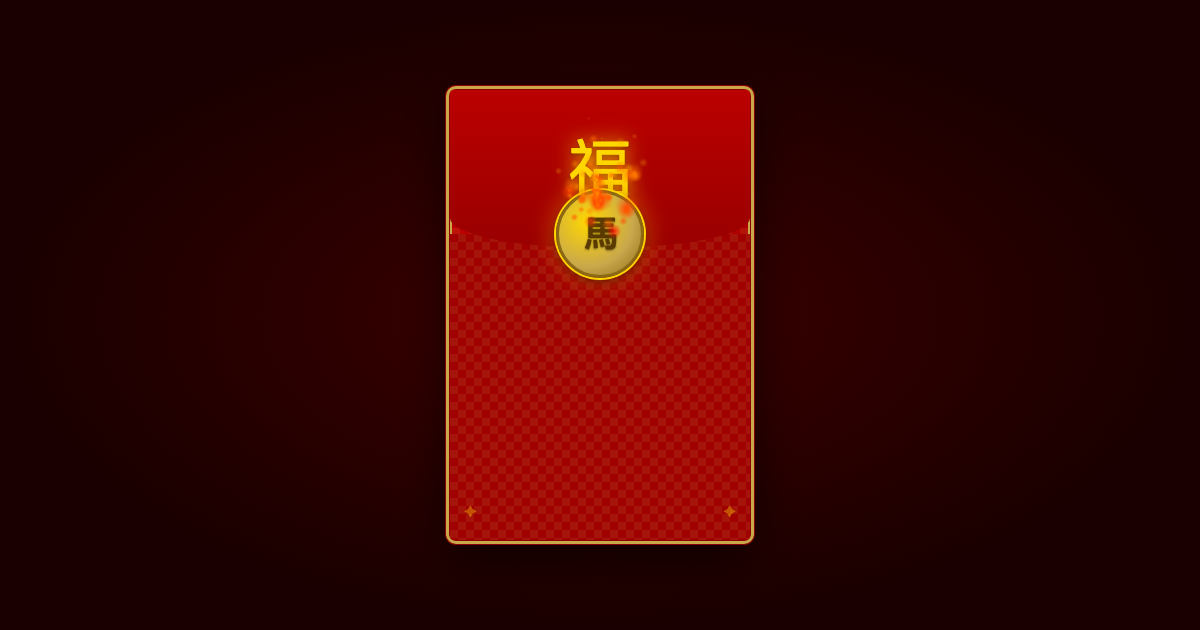
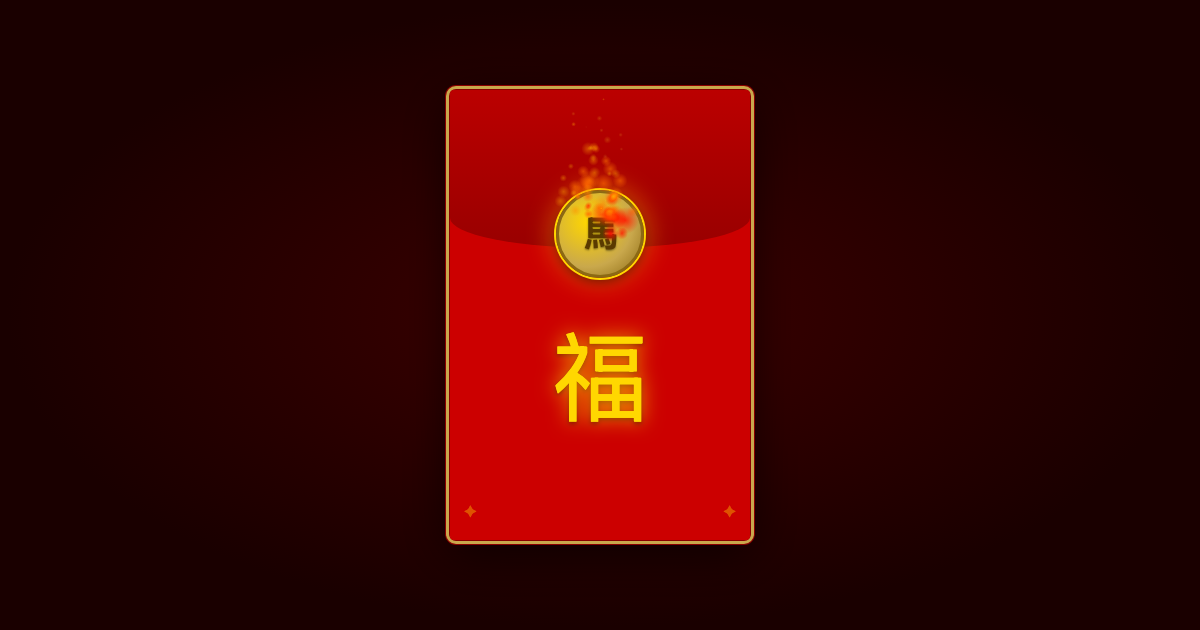
feat: third round of UI fixes — text colors, flap hinge, front panel, fire timing, greeting
- Fix 1: message text colors for cream paper (#8B1A1A / #5C3317 / #7A4A1E)
- Fix 2: flap hinge at top (transform-origin: top center), remove backface-visibility
- Fix 3: front panel top edge up to 28%/72% to cover fold-line corners
- Fix 4: fire canvas fades at t=800ms (0.8s) — clears before message at t=1000ms
- Fix 5: Chinese greeting split to two lines (新年快乐 / 万事如意)
- Add generate-opened.ts preview script and paper-card visibility test

Changed region(s): [[0.37, 0.3619, 0.6475, 0.8746], [0.4625, 0.2111, 0.555, 0.3921]]

diff --git a/index.html b/index.html
@@ -3,13 +3,13 @@
 <head>
   <meta charset="UTF-8" />
   <meta name="viewport" content="width=device-width, initial-scale=1.0" />
-  <title>新年快乐 · Happy Chinese New Year 🧧</title>
+  <title>🧧 新年快乐 · Happy Chinese New Year</title>
 
   <!-- Open Graph / link preview -->
   <!-- IMPORTANT: og:image and og:url must be updated to absolute URLs before sharing a hosted link.
        OG meta tags have no effect when sharing as a file attachment — they only work when hosted. -->
-  <meta property="og:title" content="新年快乐 · Happy Chinese New Year 🧧" />
-  <meta property="og:description" content="🧧 新年快乐 · Happy Chinese New Year — Tap to open your red envelope!" />
+  <meta property="og:title" content="新年快乐 · Happy Chinese New Year" />
+  <meta property="og:description" content="新年快乐 · Happy Chinese New Year — Tap to open your red envelope!" />
   <meta property="og:image" content="preview.png" />
   <meta property="og:url" content="https://your-domain.com/" />
   <meta property="og:type" content="website" />
@@ -58,19 +58,10 @@
     }
 
     /* ── Step 3: Envelope back (full card, always behind) ── */
-    /* Fix 5: hatch patterns layered on top of gradient so they show through flap arch gap */
     .envelope-back {
       top: 0;
       height: 100%;
-      background-color: #8B0000;
-      background-image:
-        linear-gradient(45deg, rgba(201,168,76,0.12) 25%, transparent 25%),
-        linear-gradient(-45deg, rgba(201,168,76,0.12) 25%, transparent 25%),
-        linear-gradient(45deg, transparent 75%, rgba(201,168,76,0.12) 75%),
-        linear-gradient(-45deg, transparent 75%, rgba(201,168,76,0.12) 75%),
-        linear-gradient(160deg, #CC0000 0%, #8B0000 100%);
-      background-size: 16px 16px, 16px 16px, 16px 16px, 16px 16px, 100% 100%;
-      background-position: 0 0, 0 8px, 8px -8px, -8px 0px, 0 0;
+      background: linear-gradient(160deg, #BB0000 0%, #8B0000 100%);
       border: 2px solid #C9A84C;
       box-shadow:
         0 0 0 1px #8B0000,
@@ -81,20 +72,12 @@
       z-index: 1;
     }
 
-    /* ── Step 4: Envelope front (lower panel, covers bottom 68%) ── */
-    /* Fix 7: individual borders removed — back's box-shadow provides unified border ring */
+    /* ── Step 4: Envelope front (lower panel, covers bottom 72%) ── */
     .envelope-front {
-      top: 32%;
-      height: 68%;
+      top: 28%;
+      height: 72%;
       position: relative;
-      background-color: #A00000;
-      background-image:
-        linear-gradient(45deg, rgba(201,168,76,0.12) 25%, transparent 25%),
-        linear-gradient(-45deg, rgba(201,168,76,0.12) 25%, transparent 25%),
-        linear-gradient(45deg, transparent 75%, rgba(201,168,76,0.12) 75%),
-        linear-gradient(-45deg, transparent 75%, rgba(201,168,76,0.12) 75%);
-      background-size: 16px 16px;
-      background-position: 0 0, 0 8px, 8px -8px, -8px 0px;
+      background: #CC0000;
       border-radius: 0 0 4px 4px;
       z-index: 2;
     }
@@ -121,8 +104,6 @@
     }
 
     /* ── Step 5: Flap with rounded arch bottom (traditional shape) ── */
-    /* Fix 6: transform-origin → bottom center so flap lifts toward viewer like a lid */
-    /* Fix 7: individual borders removed — back's box-shadow provides unified border ring */
     .envelope-flap {
       top: 0;
       height: 35%;
@@ -130,40 +111,25 @@
       /* Rounded arch bottom — traditional envelope flap shape */
       border-radius: 4px 4px 50% 50% / 4px 4px 30px 30px;
       z-index: 3;
-      transform-origin: bottom center;
+      transform-origin: top center;
       transform-style: preserve-3d;
       transition: transform 0.65s cubic-bezier(0.4, 0, 0.2, 1);
-      display: flex;
-      align-items: center;
-      justify-content: center;
     }
 
-    /* ── Step 6: 福 character on the flap ── */
+    /* ── Step 6: 福 character on the front body ── */
     .fu-character {
-      font-size: clamp(2.5rem, 10vw, 4rem);
+      position: absolute;
+      top: 50%;
+      left: 50%;
+      transform: translate(-50%, -50%);
+      font-size: clamp(3.5rem, 16vw, 6rem);
       color: #FFD700;
       text-shadow:
         0 0 20px rgba(255,215,0,0.8),
         0 2px 4px rgba(0,0,0,0.4);
       line-height: 1;
-      position: relative;
-      z-index: 1;
-    }
-
-    /* ── Step 7: Gold horse decoration on the envelope body ── */
-    /* Fix 8: opacity increased to 0.45 for a more visible watermark */
-    .envelope-back::after {
-      content: '馬';
-      position: absolute;
-      top: 15%;
-      left: 50%;
-      transform: translateX(-50%);
-      font-size: clamp(4rem, 20vw, 7rem);
-      color: rgba(255, 215, 0, 0.45);
-      text-shadow: 0 0 30px rgba(255,215,0,0.15);
-      line-height: 1;
       pointer-events: none;
-      font-family: "PingFang SC", "Microsoft YaHei", "SimSun", serif;
+      z-index: 1;
     }
 
     /* ── Wax Seal ────────────────────────────────────────────────── */
@@ -252,9 +218,9 @@
     }
 
     /* ── Open State ──────────────────────────────────────────────── */
-    /* Fix 6: positive rotateX with bottom-center origin = top of flap lifts toward viewer */
+    /* negative rotateX with bottom-center origin = top of flap folds backward (away from viewer) */
     .envelope.is-open .envelope-flap {
-      transform: rotateX(170deg);
+      transform: rotateX(-175deg);
     }
 
     .envelope.is-open .seal {
@@ -264,18 +230,44 @@
               animation: none;
     }
 
+    /* ── Paper Card ───────────────────────────────────────────────── */
+    .envelope-paper {
+      position: absolute;
+      top: 18%;
+      left: 6%;
+      width: 88%;
+      height: 74%;
+      background: linear-gradient(160deg, #FFF8F0 0%, #FFE4CC 60%, #FFF0DC 100%);
+      border-radius: 3px 3px 0 0;
+      box-shadow:
+        0 -10px 30px rgba(0,0,0,0.5),
+        0 4px 12px rgba(0,0,0,0.25),
+        inset 0 0 0 1px rgba(180,100,0,0.12);
+      z-index: 3;
+      opacity: 0;
+      transform: translateY(50%);
+      transition:
+        opacity 0.4s ease 0.3s,
+        transform 0.8s cubic-bezier(0.34, 1.56, 0.64, 1) 0.3s;
+      pointer-events: none;
+    }
+
+    .envelope.is-open .envelope-paper {
+      opacity: 1;
+      transform: translateY(-8%);
+    }
+
     /* ── Message ─────────────────────────────────────────────────── */
     .message {
       position: absolute;
-      top: 8%;
+      top: 18%;
       left: 0;
       right: 0;
       text-align: center;
       padding: 0 20px;
       opacity: 0;
-      transform: translateY(24px);
-      transition: opacity 0.5s ease 0.7s, transform 0.5s ease 0.7s;
-      z-index: 2;
+      transform: translateY(12px);
+      transition: opacity 0.5s ease 1.0s, transform 0.5s ease 1.0s;
       pointer-events: none;
     }
 
@@ -286,15 +278,14 @@
 
     .message-cn {
       font-size: clamp(1.3rem, 5.5vw, 2rem);
-      color: #FFD700;
-      text-shadow: 0 0 20px rgba(255,215,0,0.5);
+      color: #8B1A1A;
       line-height: 1.5;
       margin-bottom: 12px;
     }
 
     .message-en {
       font-size: clamp(0.8rem, 3vw, 1rem);
-      color: #FFECB3;
+      color: #5C3317;
       font-style: italic;
       line-height: 1.6;
       margin-bottom: 14px;
@@ -302,7 +293,7 @@
 
     .message-year {
       font-size: clamp(0.75rem, 2.5vw, 0.9rem);
-      color: #C9A84C;
+      color: #7A4A1E;
       letter-spacing: 0.12em;
     }
   </style>
@@ -313,19 +304,21 @@
       <!-- Back of envelope (always behind) -->
       <div class="envelope-back"></div>
 
-      <!-- Flap (folds up to open) -->
-      <div class="envelope-flap" id="flap">
+      <!-- Flap (folds backward to open) -->
+      <div class="envelope-flap" id="flap"></div>
+
+      <!-- Front body of envelope (福 lives here, not on the flap) -->
+      <div class="envelope-front">
         <div class="fu-character">福</div>
       </div>
 
-      <!-- Front body of envelope -->
-      <div class="envelope-front"></div>
-
-      <!-- Message (hidden until open) -->
-      <div class="message" id="message" aria-live="polite" aria-atomic="true">
-        <div class="message-cn" id="message-cn">新年快乐，万事如意</div>
-        <div class="message-en" id="message-en">Wishing you a Happy New Year and may all go well</div>
-        <div class="message-year">🐎 2026 · 年</div>
+      <!-- Paper card (rises from envelope on opening) -->
+      <div class="envelope-paper">
+        <div class="message" id="message" aria-live="polite" aria-atomic="true">
+          <div class="message-cn" id="message-cn">新年快乐<br>万事如意</div>
+          <div class="message-en" id="message-en">Wishing you a Happy New Year and may all go well</div>
+          <div class="message-year">丙午年 · 2026</div>
+        </div>
       </div>
 
       <!-- Fix 1: seal is last child of .envelope — DOM order guarantees it
@@ -496,9 +489,9 @@
       // Fix 4: after burst completes, stop spawning and fade canvas out
       setTimeout(() => {
         fireActive = false;
-        canvas.style.transition = 'opacity 1s ease';
+        canvas.style.transition = 'opacity 0.8s ease';
         canvas.style.opacity = '0';
-      }, 2000);
+      }, 800);
     }
 
     // Desktop: click

diff --git a/scripts/generate-opened.ts b/scripts/generate-opened.ts
@@ -1,0 +1,30 @@
+#!/usr/bin/env bun
+/**
+ * Generates preview-opened.png showing the envelope in its open state.
+ *
+ * @file generate-opened.ts
+ * @version 0.1.0
+ * @since 2026-02-18
+ * @author tgulls
+ */
+
+import { chromium } from "playwright";
+import { writeFileSync } from "fs";
+import { join } from "path";
+
+const browser = await chromium.launch();
+const page = await browser.newPage();
+await page.setViewportSize({ width: 1200, height: 630 });
+
+const filePath = join(import.meta.dir, "..", "index.html");
+await page.goto(`file://${filePath}`);
+await page.waitForTimeout(400);
+await page.locator(".seal").click();
+await page.waitForTimeout(1800);
+
+const buf = await page.screenshot({ type: "png" });
+const dest = join(import.meta.dir, "..", "preview-opened.png");
+writeFileSync(dest, Buffer.from(buf));
+console.log(`preview-opened.png written (${buf.byteLength} bytes)`);
+
+await browser.close();

diff --git a/scripts/ui.test.ts b/scripts/ui.test.ts
@@ -46,6 +46,15 @@ describe("Red Envelope UI", () => {
     expect(opacity).toBeGreaterThan(0.9);
   });
 
+  test("paper card is visible after opening", async () => {
+    await page.locator(".seal").click();
+    await page.waitForTimeout(1500);
+    const opacity = await page.locator(".envelope-paper").evaluate(
+      (el) => parseFloat(getComputedStyle(el).opacity)
+    );
+    expect(opacity).toBeGreaterThan(0.9);
+  });
+
   // URL params
   test("?msg= overrides English line", async () => {
     await page.goto(`${FILE_URL}?msg=Hello+World`);
